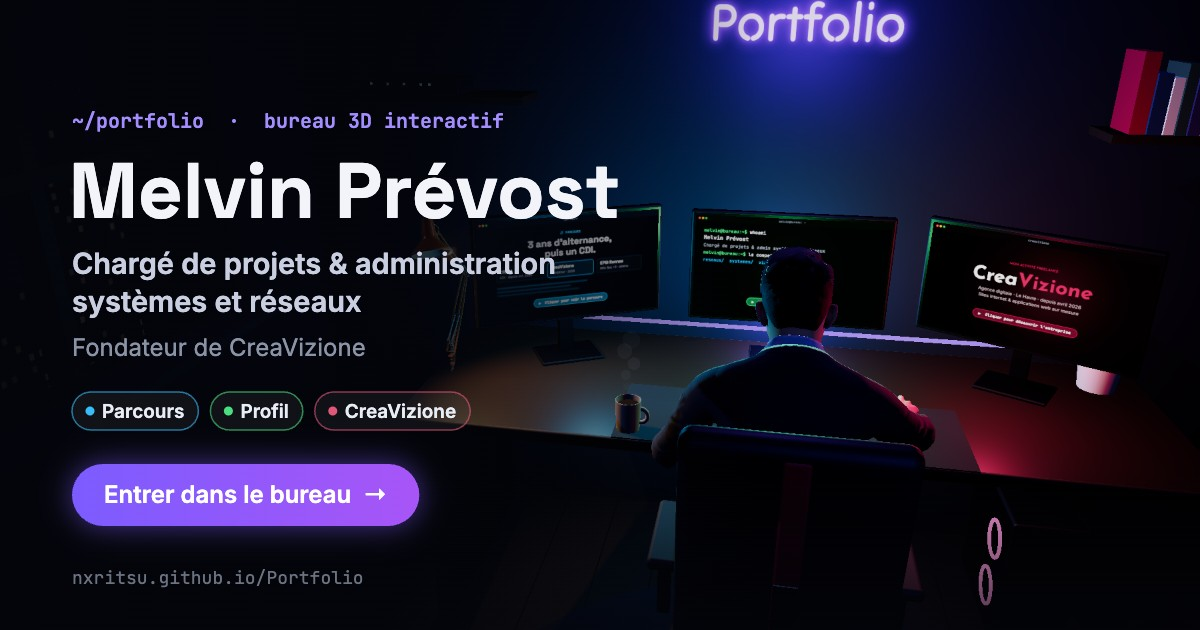
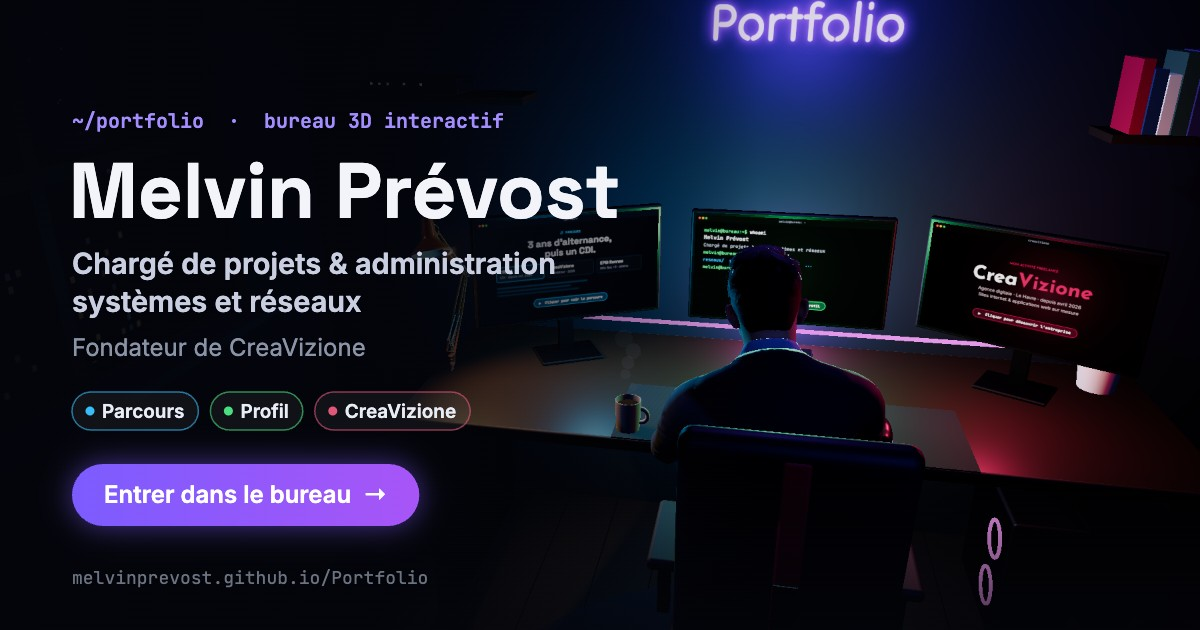
Nouvelle adresse après le changement de pseudo GitHub
Liens GitHub, balises d'aperçu, image d'aperçu et README pointent vers melvinprevost.github.io/Portfolio et github.com/melvinprevost.

diff --git a/index.html b/index.html
@@ -6,18 +6,18 @@
   <title>Melvin Prévost | Portfolio</title>
   <meta name="description" content="Portfolio 3D de Melvin Prévost : chargé de projets et d'administration systèmes et réseaux chez CRAM, fondateur de CreaVizione." />
   <meta name="theme-color" content="#04050b" />
-  <link rel="canonical" href="https://nxritsu.github.io/Portfolio/" />
+  <link rel="canonical" href="https://melvinprevost.github.io/Portfolio/" />
   <link rel="icon" href="assets/favicon.svg" type="image/svg+xml" />
   <link rel="apple-touch-icon" href="assets/apple-touch-icon.png" />
   <!-- Aperçu du lien (LinkedIn, messageries, réseaux sociaux) -->
   <meta property="og:type" content="website" />
   <meta property="og:site_name" content="Melvin Prévost | Portfolio" />
   <meta property="og:locale" content="fr_FR" />
-  <meta property="og:url" content="https://nxritsu.github.io/Portfolio/" />
+  <meta property="og:url" content="https://melvinprevost.github.io/Portfolio/" />
   <meta property="og:title" content="Melvin Prévost | Portfolio 3D" />
   <meta property="og:description" content="Entrez dans mon bureau en 3D : parcours, compétences en systèmes et réseaux, et CreaVizione, mon agence web." />
-  <meta property="og:image" content="https://nxritsu.github.io/Portfolio/assets/og-image.jpg" />
-  <meta property="og:image:secure_url" content="https://nxritsu.github.io/Portfolio/assets/og-image.jpg" />
+  <meta property="og:image" content="https://melvinprevost.github.io/Portfolio/assets/og-image.jpg" />
+  <meta property="og:image:secure_url" content="https://melvinprevost.github.io/Portfolio/assets/og-image.jpg" />
   <meta property="og:image:type" content="image/jpeg" />
   <meta property="og:image:width" content="1200" />
   <meta property="og:image:height" content="630" />
@@ -25,7 +25,7 @@
   <meta name="twitter:card" content="summary_large_image" />
   <meta name="twitter:title" content="Melvin Prévost | Portfolio 3D" />
   <meta name="twitter:description" content="Entrez dans mon bureau en 3D : parcours, compétences et CreaVizione." />
-  <meta name="twitter:image" content="https://nxritsu.github.io/Portfolio/assets/og-image.jpg" />
+  <meta name="twitter:image" content="https://melvinprevost.github.io/Portfolio/assets/og-image.jpg" />
   <link rel="preconnect" href="https://fonts.googleapis.com" />
   <link rel="preconnect" href="https://fonts.gstatic.com" crossorigin />
   <link href="https://fonts.googleapis.com/css2?family=Inter:wght@400;500;600;700&family=JetBrains+Mono:wght@400;600&family=Josefin+Sans:wght@400;600;700&family=Space+Grotesk:wght@500;700&family=Tilt+Neon&display=swap" rel="stylesheet" />
@@ -67,7 +67,7 @@
       <span class="brand-role brand-role-short">Systèmes &amp; réseaux · CRAM · CreaVizione</span>
     </div>
     <div class="hud-links">
-      <a class="hud-link" href="https://github.com/NxRitsu" target="_blank" rel="noopener">GitHub ↗</a>
+      <a class="hud-link" href="https://github.com/melvinprevost" target="_blank" rel="noopener">GitHub ↗</a>
       <a class="hud-link" href="https://www.linkedin.com/in/melvinprevost/" target="_blank" rel="noopener">LinkedIn ↗</a>
     </div>
   </header>
@@ -227,7 +227,7 @@
         <p class="cmd"><span class="ps">melvin@bureau:~$</span> ./contact.sh</p>
         <div class="contact">
           <a class="btn" href="https://www.linkedin.com/in/melvinprevost/" target="_blank" rel="noopener">LinkedIn</a>
-          <a class="btn ghost" href="https://github.com/NxRitsu" target="_blank" rel="noopener">GitHub ↗</a>
+          <a class="btn ghost" href="https://github.com/melvinprevost" target="_blank" rel="noopener">GitHub ↗</a>
           <a class="btn ghost" href="mailto:melvinlh76@gmail.com">melvinlh76@gmail.com</a>
         </div>
         <p class="cmd"><span class="ps">melvin@bureau:~$</span> <span class="caret">_</span></p>

diff --git a/README.md b/README.md
@@ -2,9 +2,9 @@
 
 Mon portfolio, sous forme de bureau de nuit en 3D. On me voit de dos, devant trois écrans qu'on peut ouvrir.
 
-[Voir le portfolio en ligne](https://nxritsu.github.io/Portfolio/)
+[Voir le portfolio en ligne](https://melvinprevost.github.io/Portfolio/)
 
-[![Aperçu du portfolio](assets/og-image.jpg)](https://nxritsu.github.io/Portfolio/)
+[![Aperçu du portfolio](assets/og-image.jpg)](https://melvinprevost.github.io/Portfolio/)
 
 ## Comment ça marche
 
